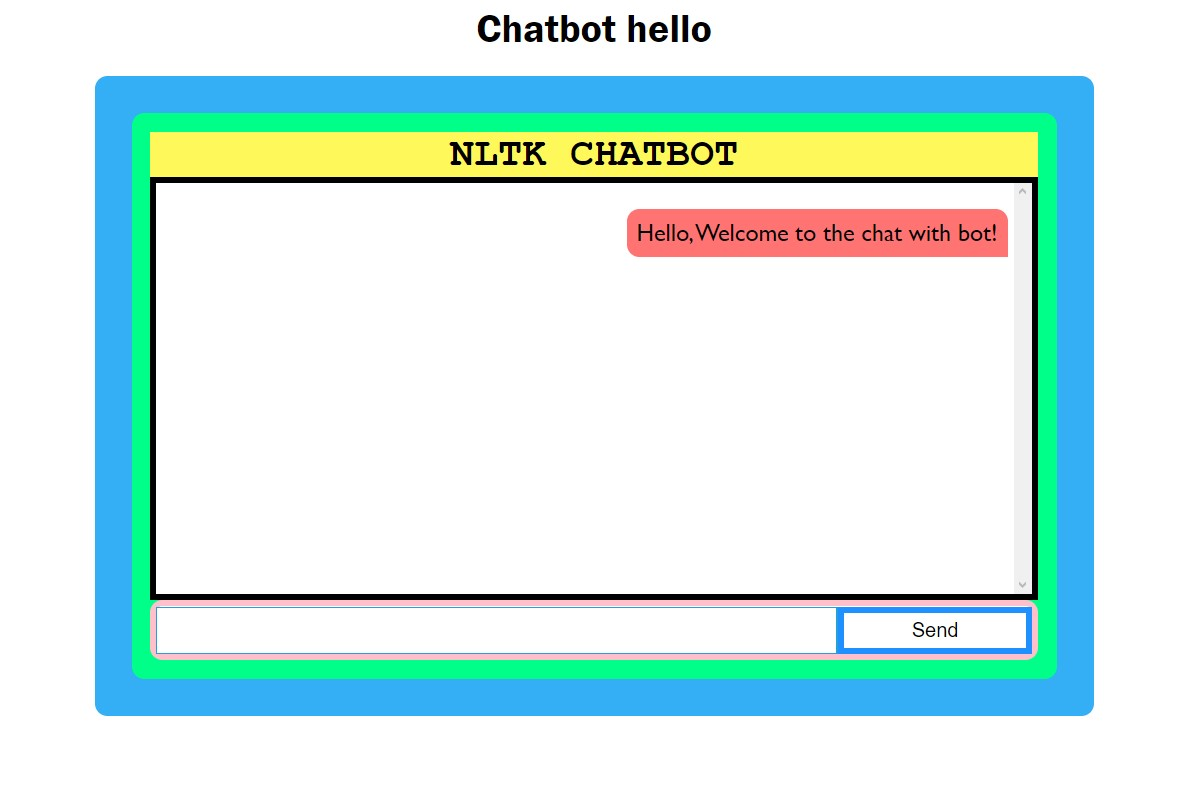
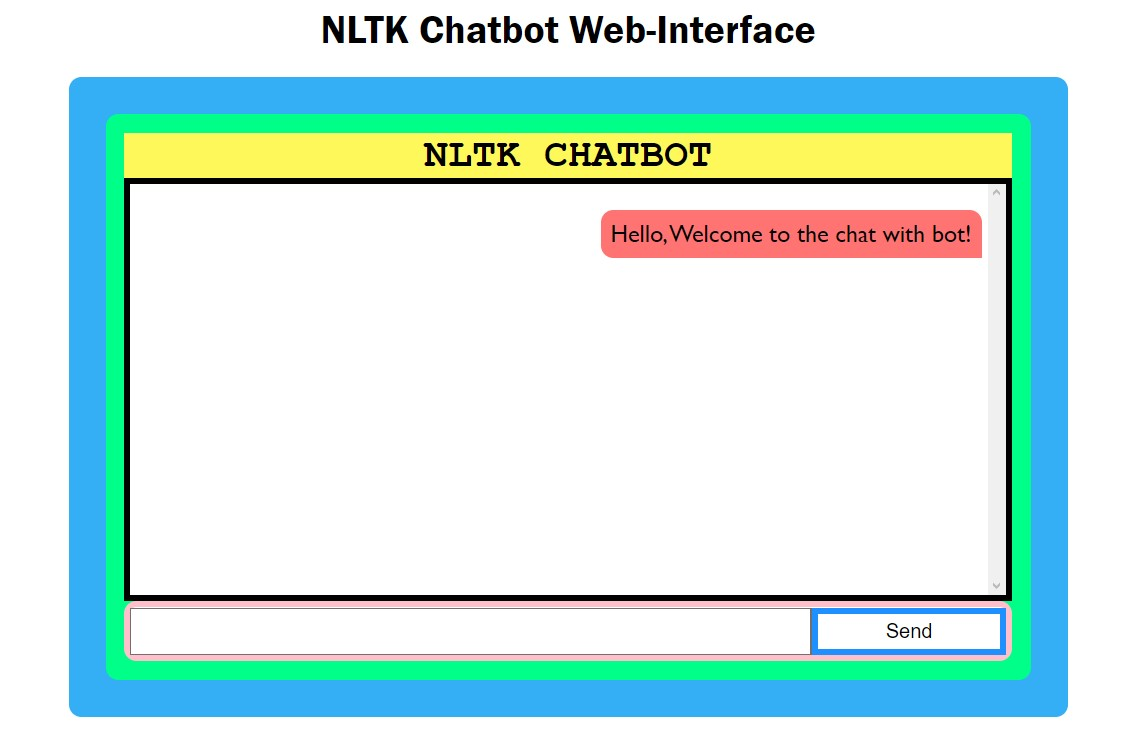
More changes.

Changed region(s): [[0.0616, 0.0918, 0.9543, 0.9787], [0.277, 0.0, 0.7388, 0.0612]]

diff --git a/templates/homepage.html b/templates/homepage.html
@@ -17,7 +17,7 @@ See LICENSE file in the project root for license information.
     <script src="../static/script.js"></script>
 </head>
 <body>
-    <div class="page-title">NLTK Chatbot Web Interface</div>
+    <div class="page-title">NLTK Chatbot Web-Interface</div>
 
     <div class="main-window">
         <div class="inner-container">

diff --git a/README.md b/README.md
@@ -27,10 +27,10 @@
 ### Screenshots:
 
 1. Web-Interface 1:
-![Web-Interface 1](./screenshots/web_1.jpg?raw=true)
+![Web-Interface 1](./screenshots/web_1.png?raw=true)
 
 2. Web-Interface 2:
-![Web-Interface 2](./screenshots/web_2.jpg?raw=true)
+![Web-Interface 2](./screenshots/web_2.png?raw=true)
 
 3. Console 1 (Dry Run):
 ![Console 1](./screenshots/console_1.jpg?raw=true)
